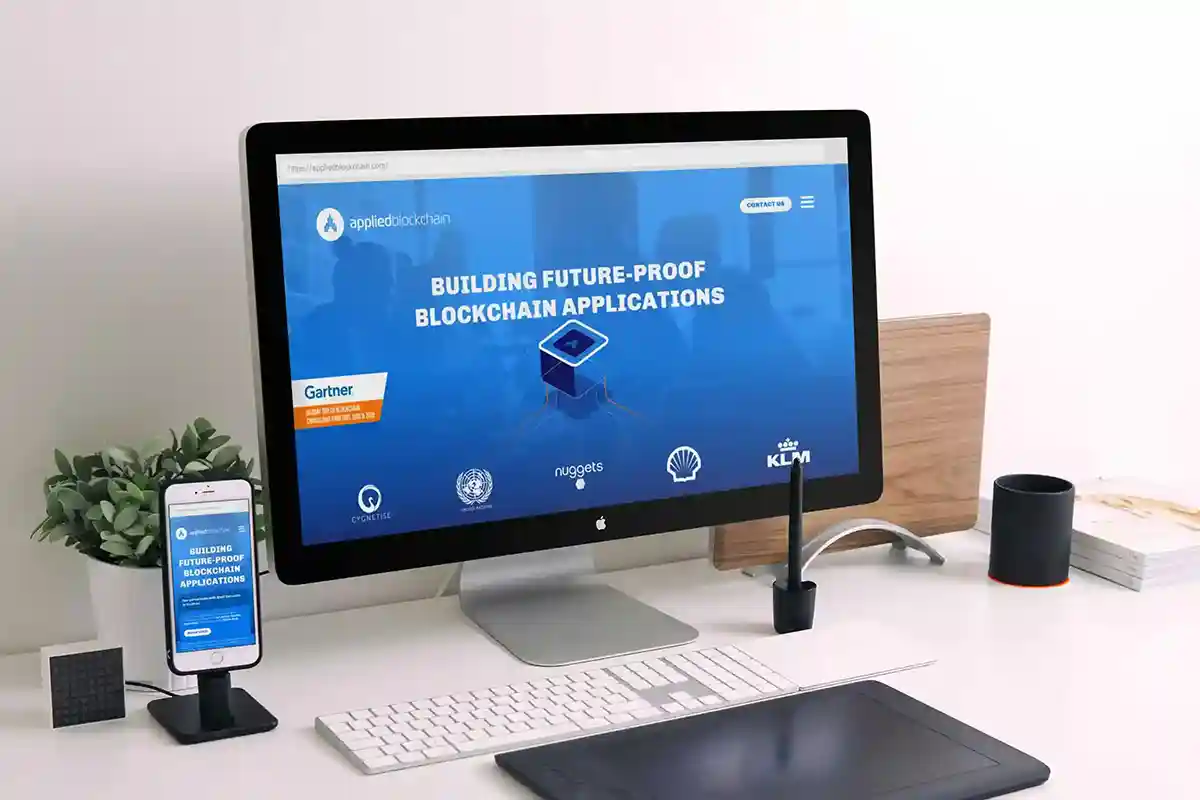
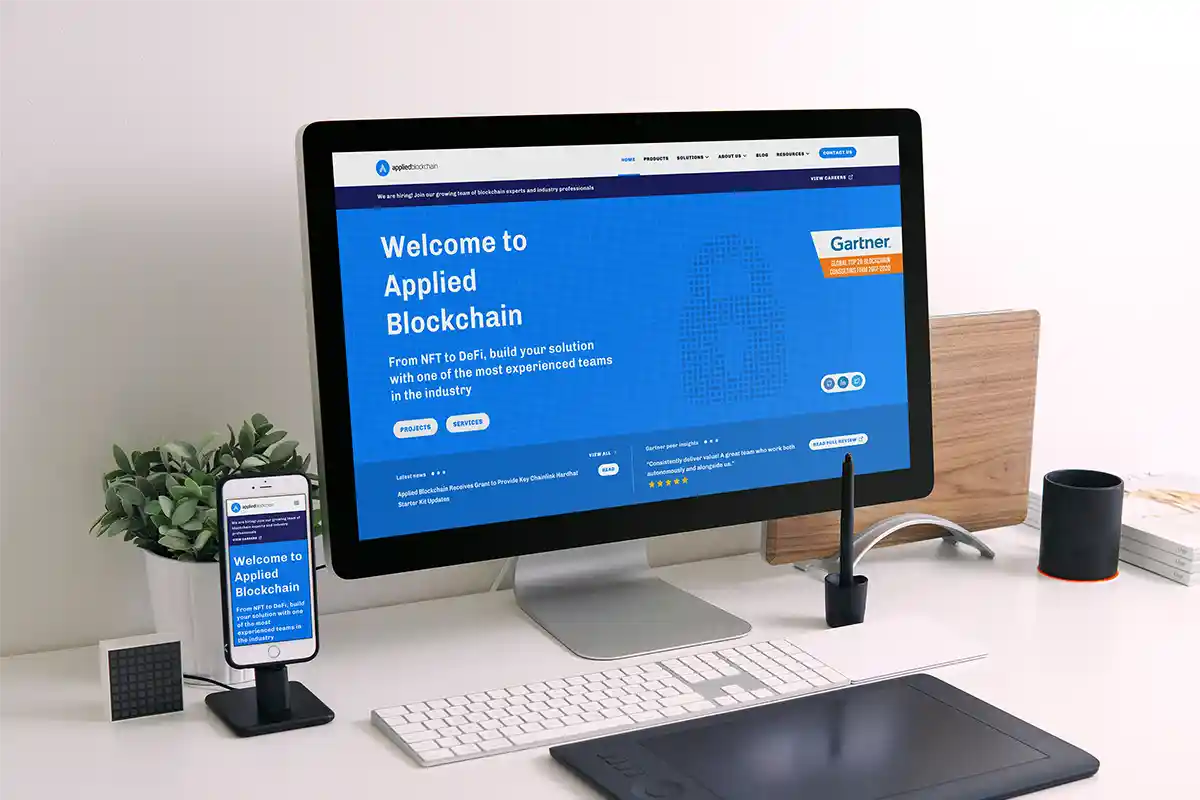
Update AB screens and description

diff --git a/_projects/applied-blockchain.md b/_projects/applied-blockchain.md
@@ -33,20 +33,29 @@ tags:
   {% include components/project-content.html
     title = "Presentation"
     body = "
-      <p>This project was conducted in-house. The design has been created in collaboration with the second in-house designer and the developement autonomously, from scratch. We used Sketch in InVision for design and collaboration, and coded the website in HTML, SCSS and Javascript using static site generator Jekyll.</p>
+      <p>The Applied Blockchain website was created when the company was first setup and had evolved without structure, adding blocks on top of each other.</p>
+      <p>The company had evolved and expanded, and the first step was to create a sitemap to add the new content while improving the structure, improve SEO and content distribution. The challenge it brought was to keep the top nav bar as simple as possible, hence the introduction of sub menus.</p>
     "
   %}
   {% include components/project-image.html
-    file_name = "mockup-compare-join"
-    legend = "Join page – before and after"
+    file_name = "homepage"
+    legend = "Home page – before and after"
   %}
   {% include components/project-image.html
-    file_name = "mockup-compare-media"
-    legend = "Media page – before and after"
-  %}
-  {% include components/project-image.html
-    file_name = "mockup-compare-projects"
+    file_name = "projects"
     legend = "Projects page – before and after"
+  %}
+  {% include components/project-image.html
+    file_name = "about"
+    legend = "About page – before and after"
+  %}
+  {% include components/project-image.html
+    file_name = "blog"
+    legend = "Blog – before and after"
+  %}
+  {% include components/project-image.html
+    file_name = "contact"
+    legend = "Contact page – before and after"
   %}
   </div>
 </div>
